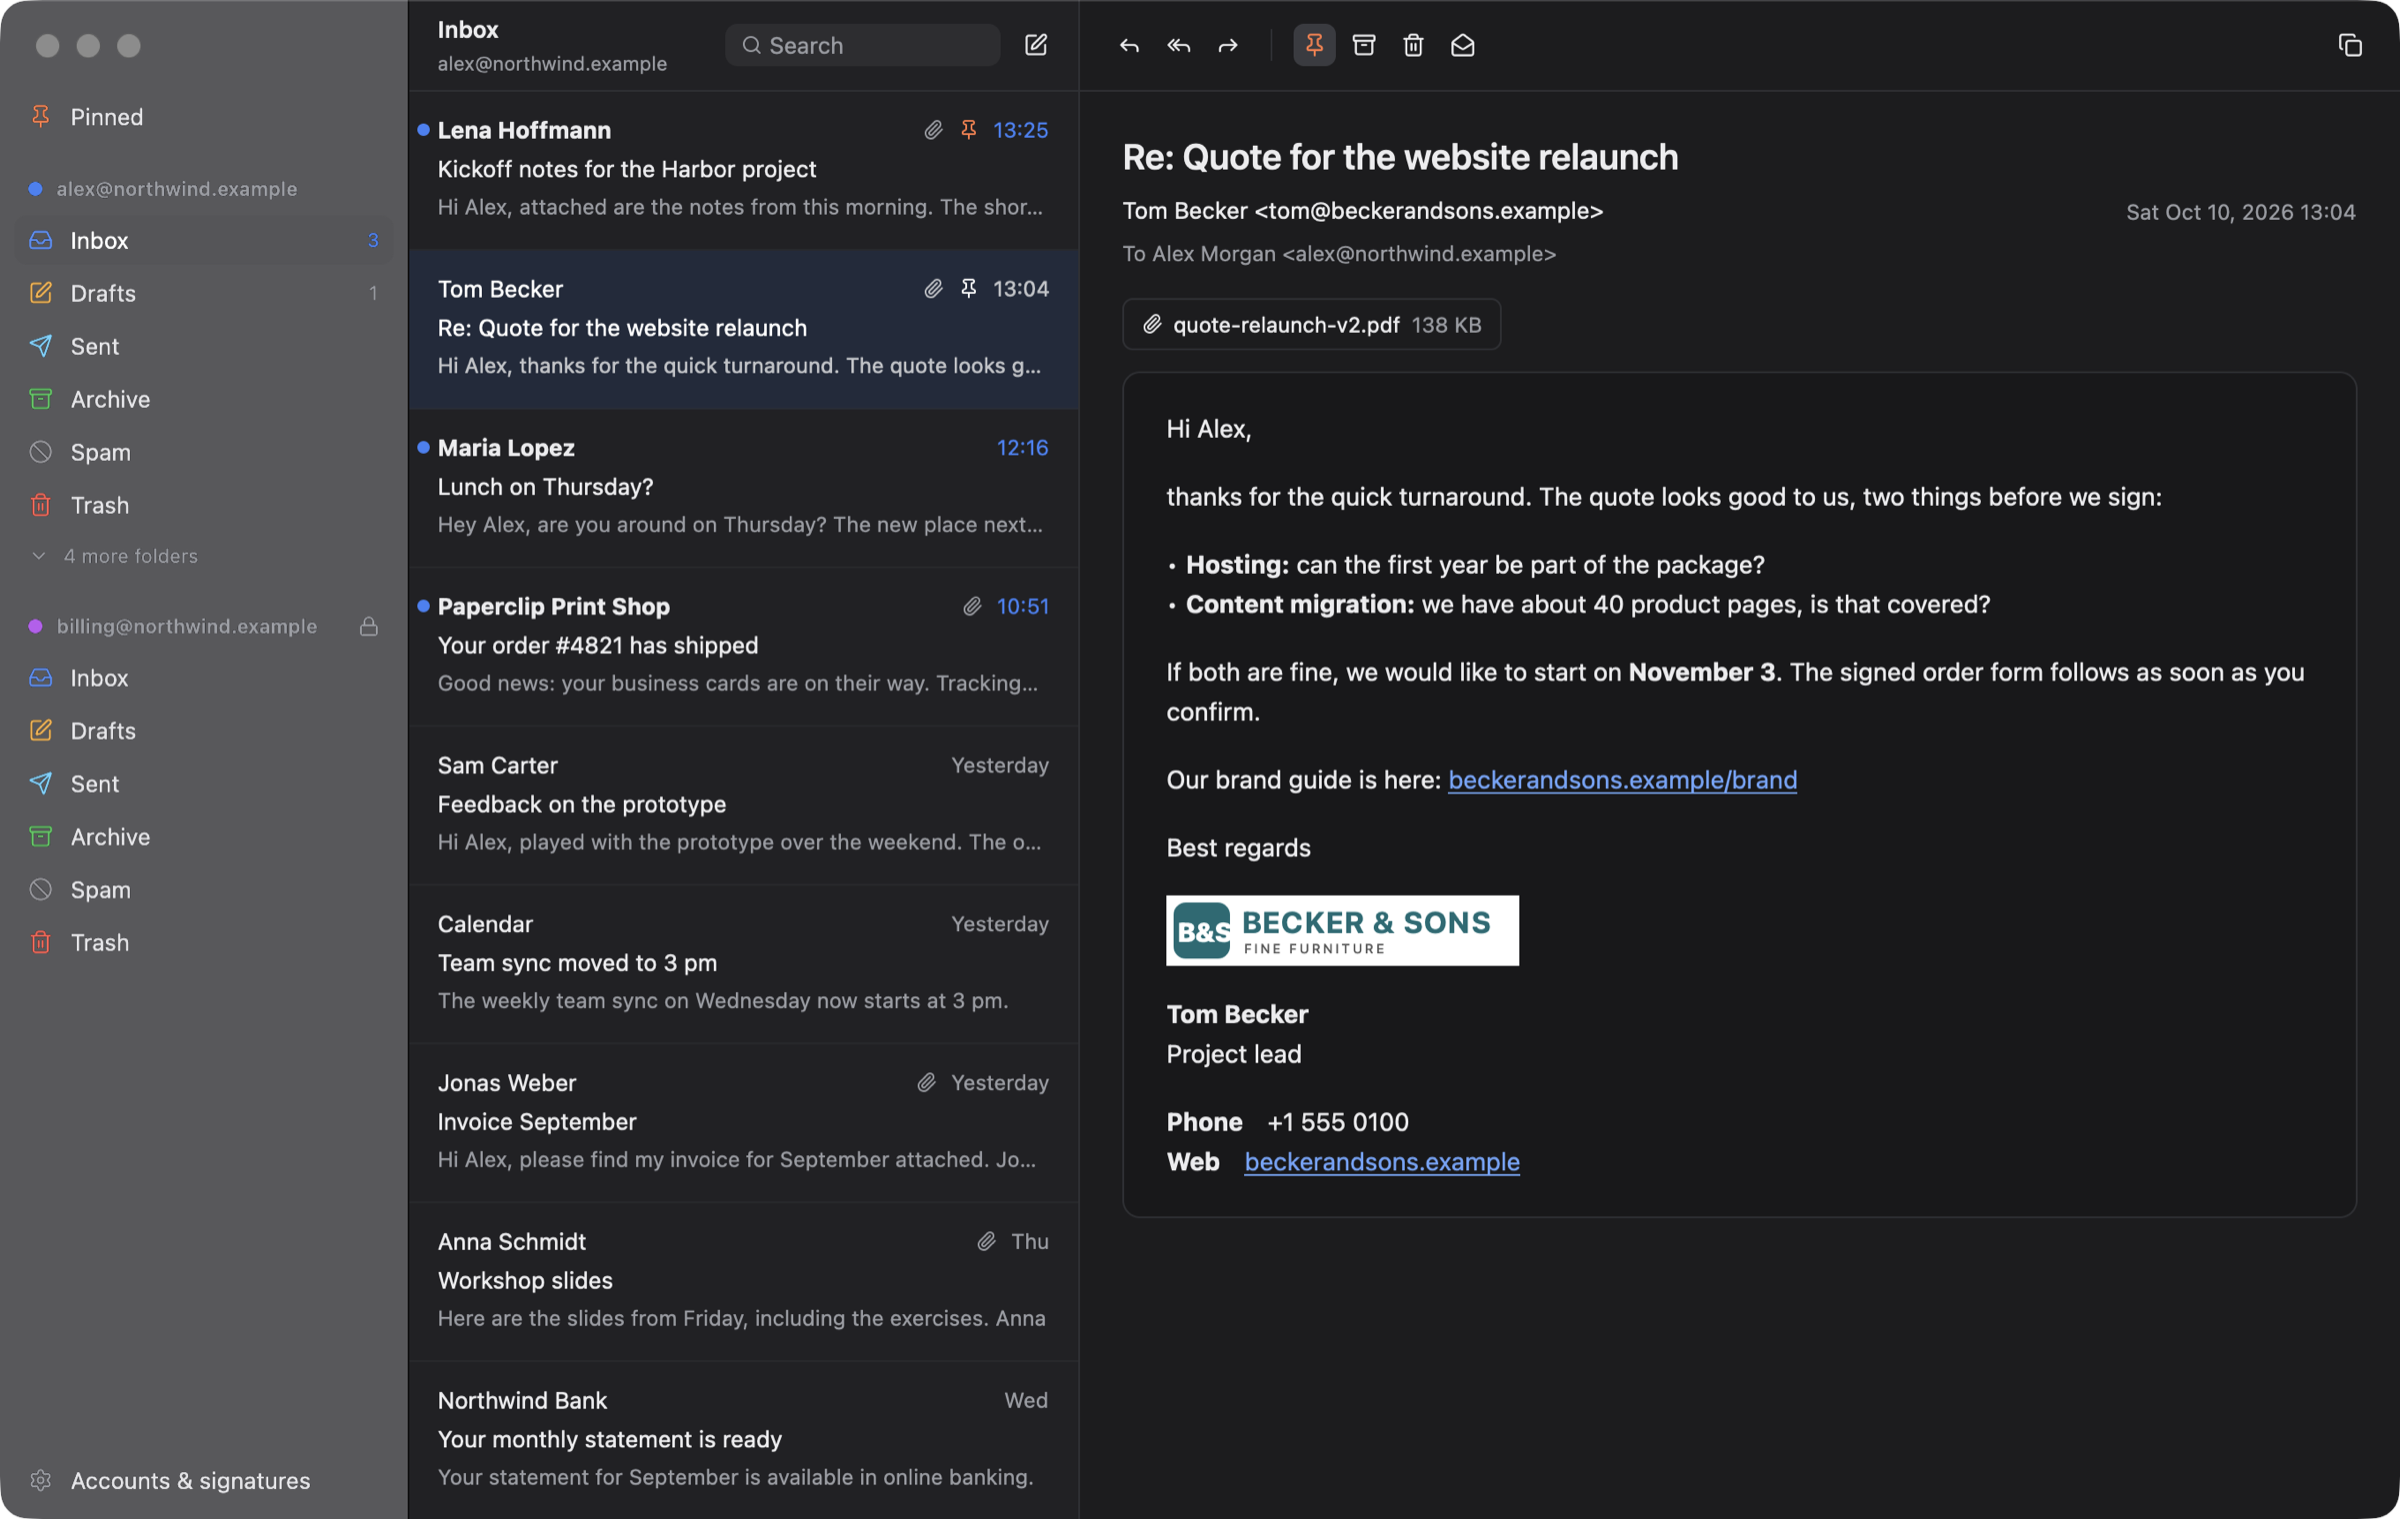
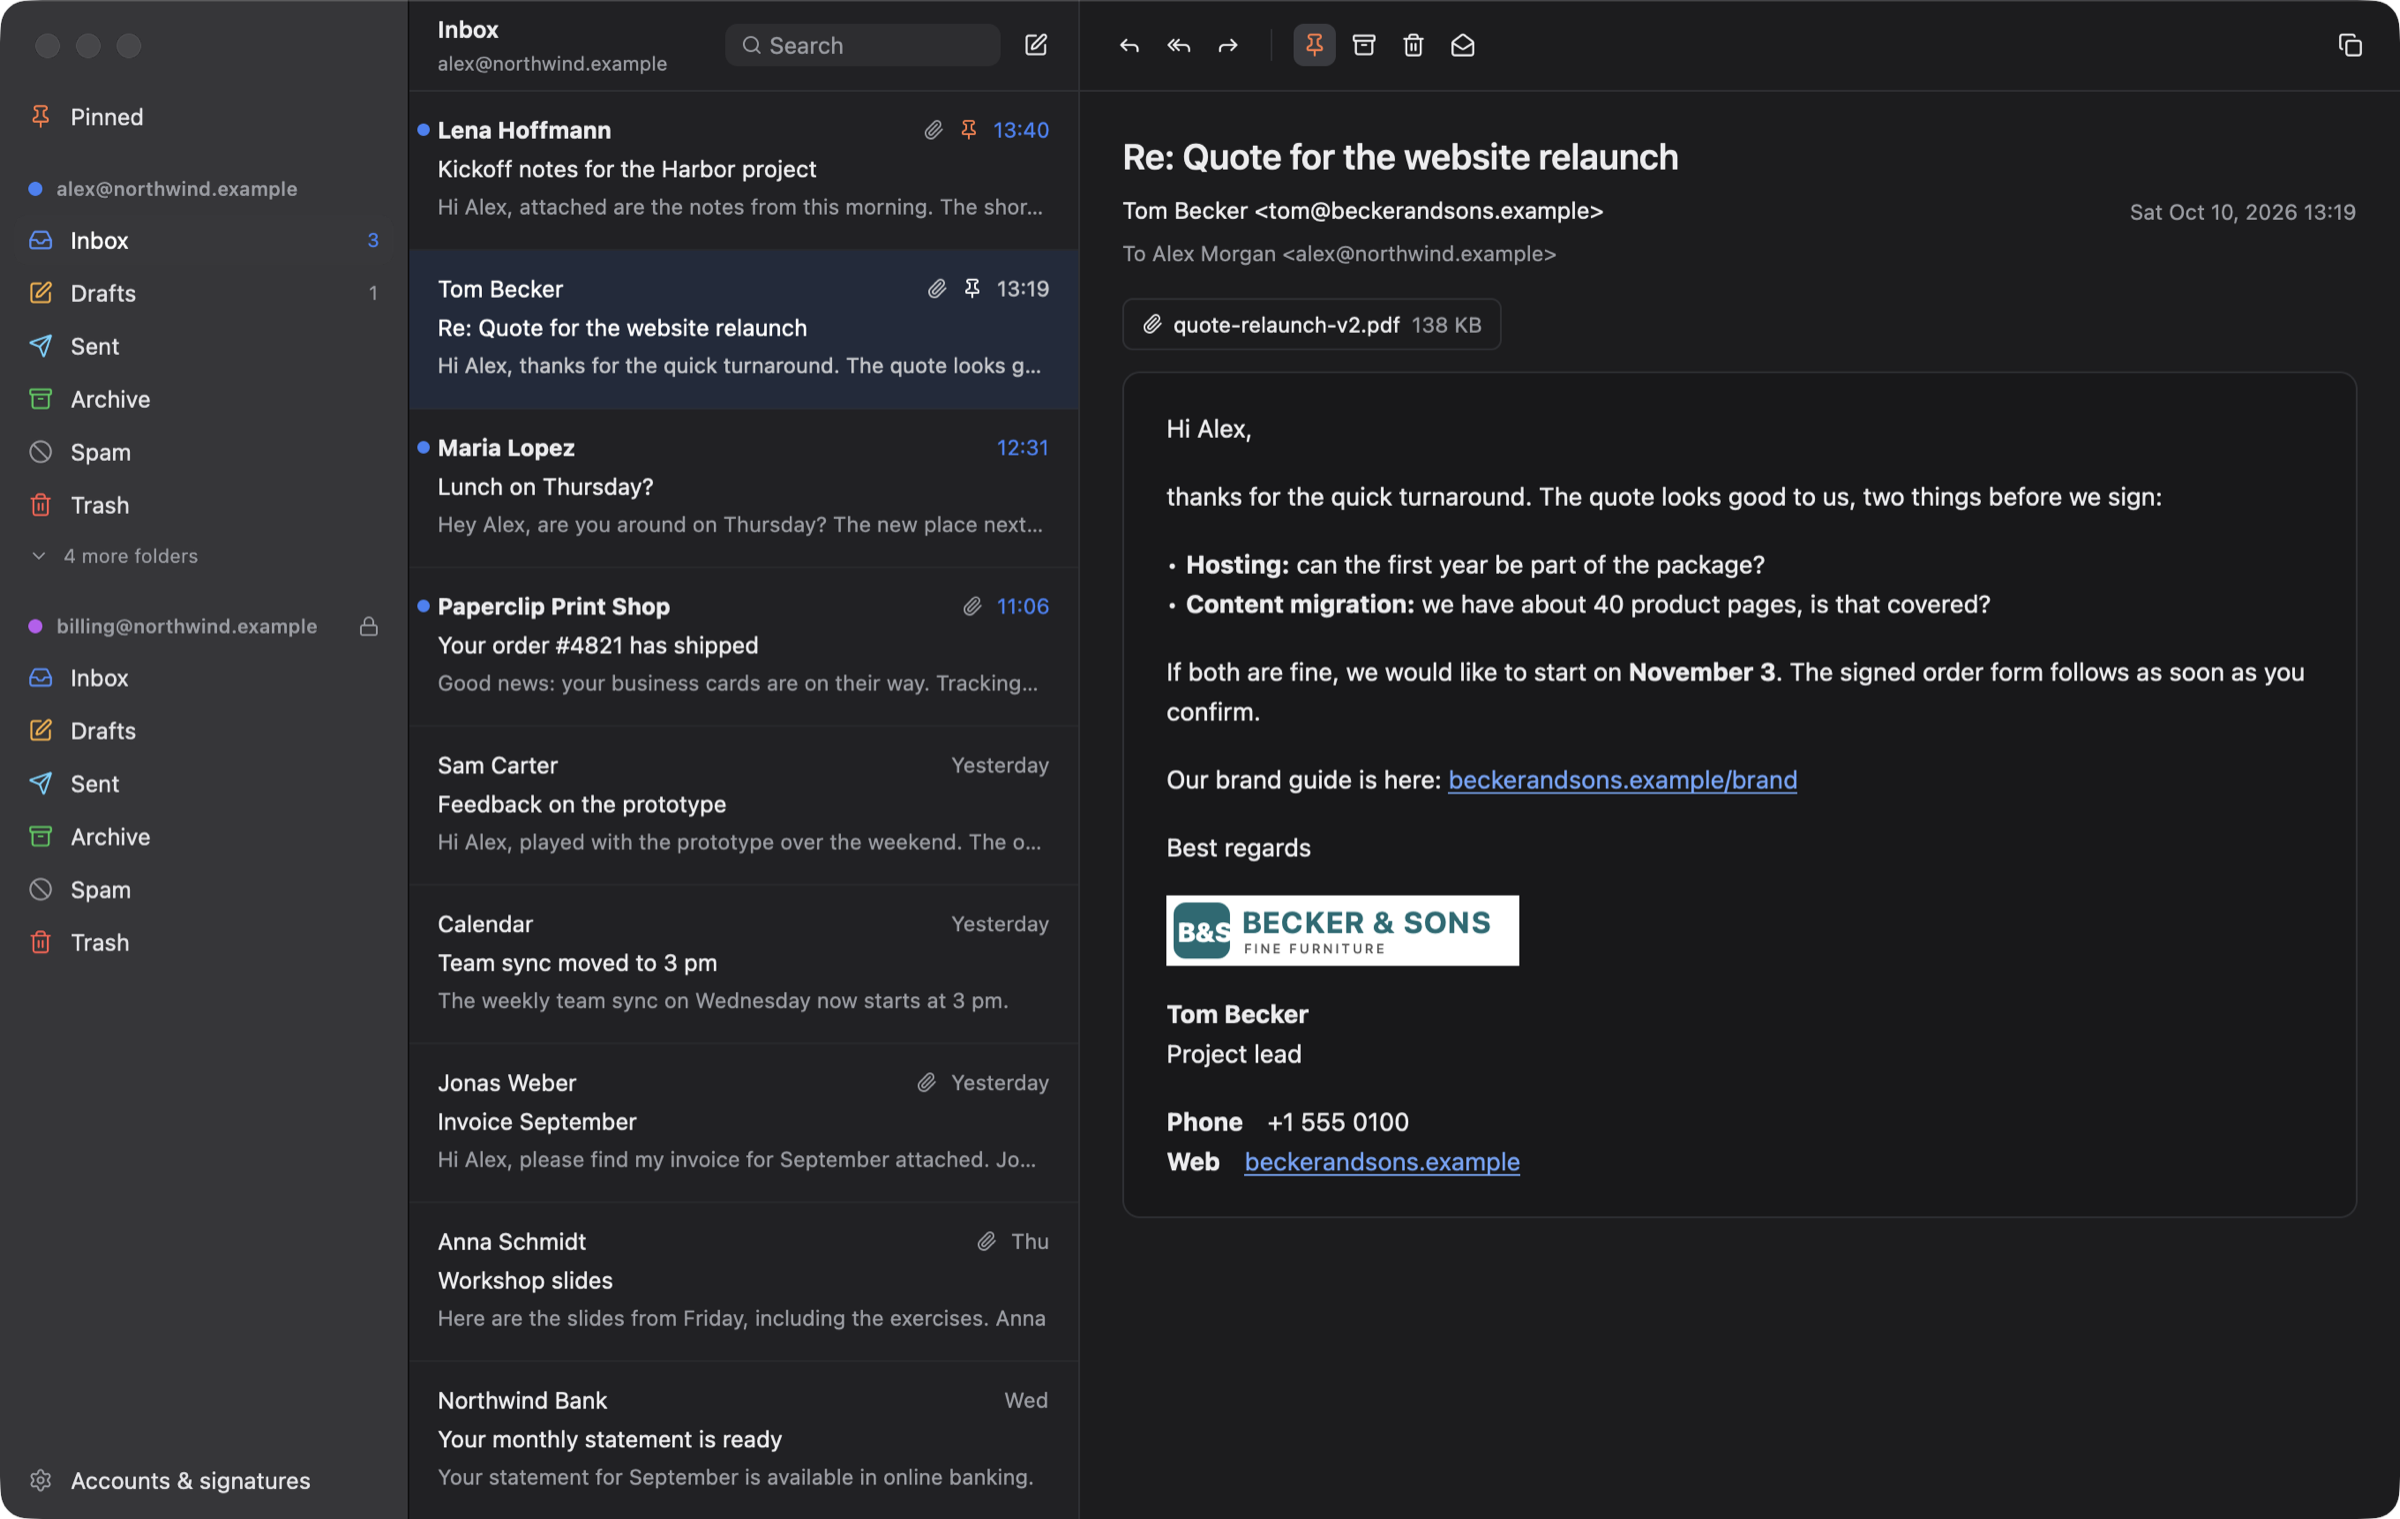
Sidebar: less translucent

diff --git a/crates/jm-app/src/theme.rs b/crates/jm-app/src/theme.rs
@@ -18,8 +18,8 @@ const COLORS: &[(&str, &str, &str)] = &[
     ("input", "#d1d1d6", "#3a3b40"),
     ("muted", "#f2f2f7", "#2a2b2f"),
     ("muted_foreground", "#6e6e73", "#9a9ca3"),
-    // translucent: the window blurs the desktop behind it, like the sidebar material of macOS
-    ("sidebar", "#ececf0d0", "#262629c4"),
+    // slightly translucent: the window blurs the desktop behind it, like the sidebar material of macOS
+    ("sidebar", "#ececf0ee", "#262629ec"),
     ("sidebar_border", "#00000017", "#00000099"),
     ("sidebar_foreground", "#1d1d1f", "#e4e4e7"),
     ("sidebar_accent", "#00000014", "#ffffff17"),
